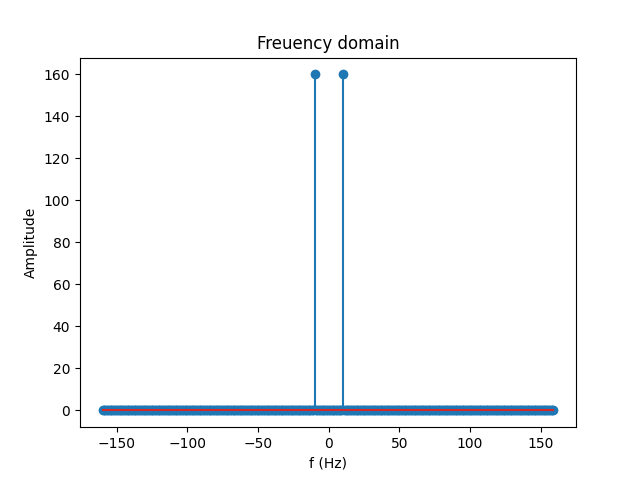
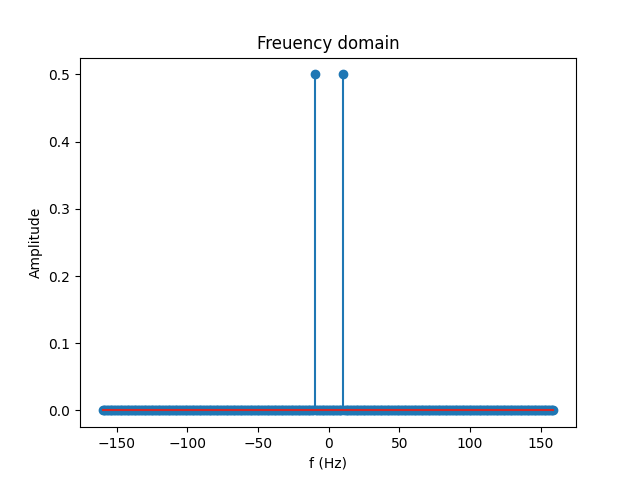
saving

diff --git a/ch1_demo_scripts.py b/ch1_demo_scripts.py
@@ -135,7 +135,7 @@ def fft_example_1():
 
     # fft with fftshift
     N=fs # FFT size
-    X = fftshift(fft(x,N)) # N-point complex DFT, output contains DC at index 0
+    X = fftshift(fft(x,N)) / N # N-point complex DFT, output contains DC at index 0
     df=fs/N # frequency resolution
     sampleIndex = np.arange(start = -N//2,stop = N//2) # raw index for FFT plot
     f=sampleIndex*df # x-axis index converted to frequencies
@@ -146,6 +146,8 @@ def fft_example_1():
     plt.xlabel('f (Hz)') # x-axis label
     plt.ylabel('Amplitude') # y-axis label
     plt.savefig('Ch1_images/fft_example_1_im2.png') # display the figure
+
+fft_example_1()
 
 
 # Take FFT, extract amplitude and phase info, re-construct in time domain

diff --git a/passband_modulations.py b/passband_modulations.py
@@ -365,24 +365,3 @@ def piBy4_dqpsk_mod(a,fc,OF,enable_plot=False)
     s_t = U_t + V_t
 
     if enable_plot:
-
-        
-
-
-    
-
-
-
-
-
-
-
-
-
-
-
-
-
-
-
-
